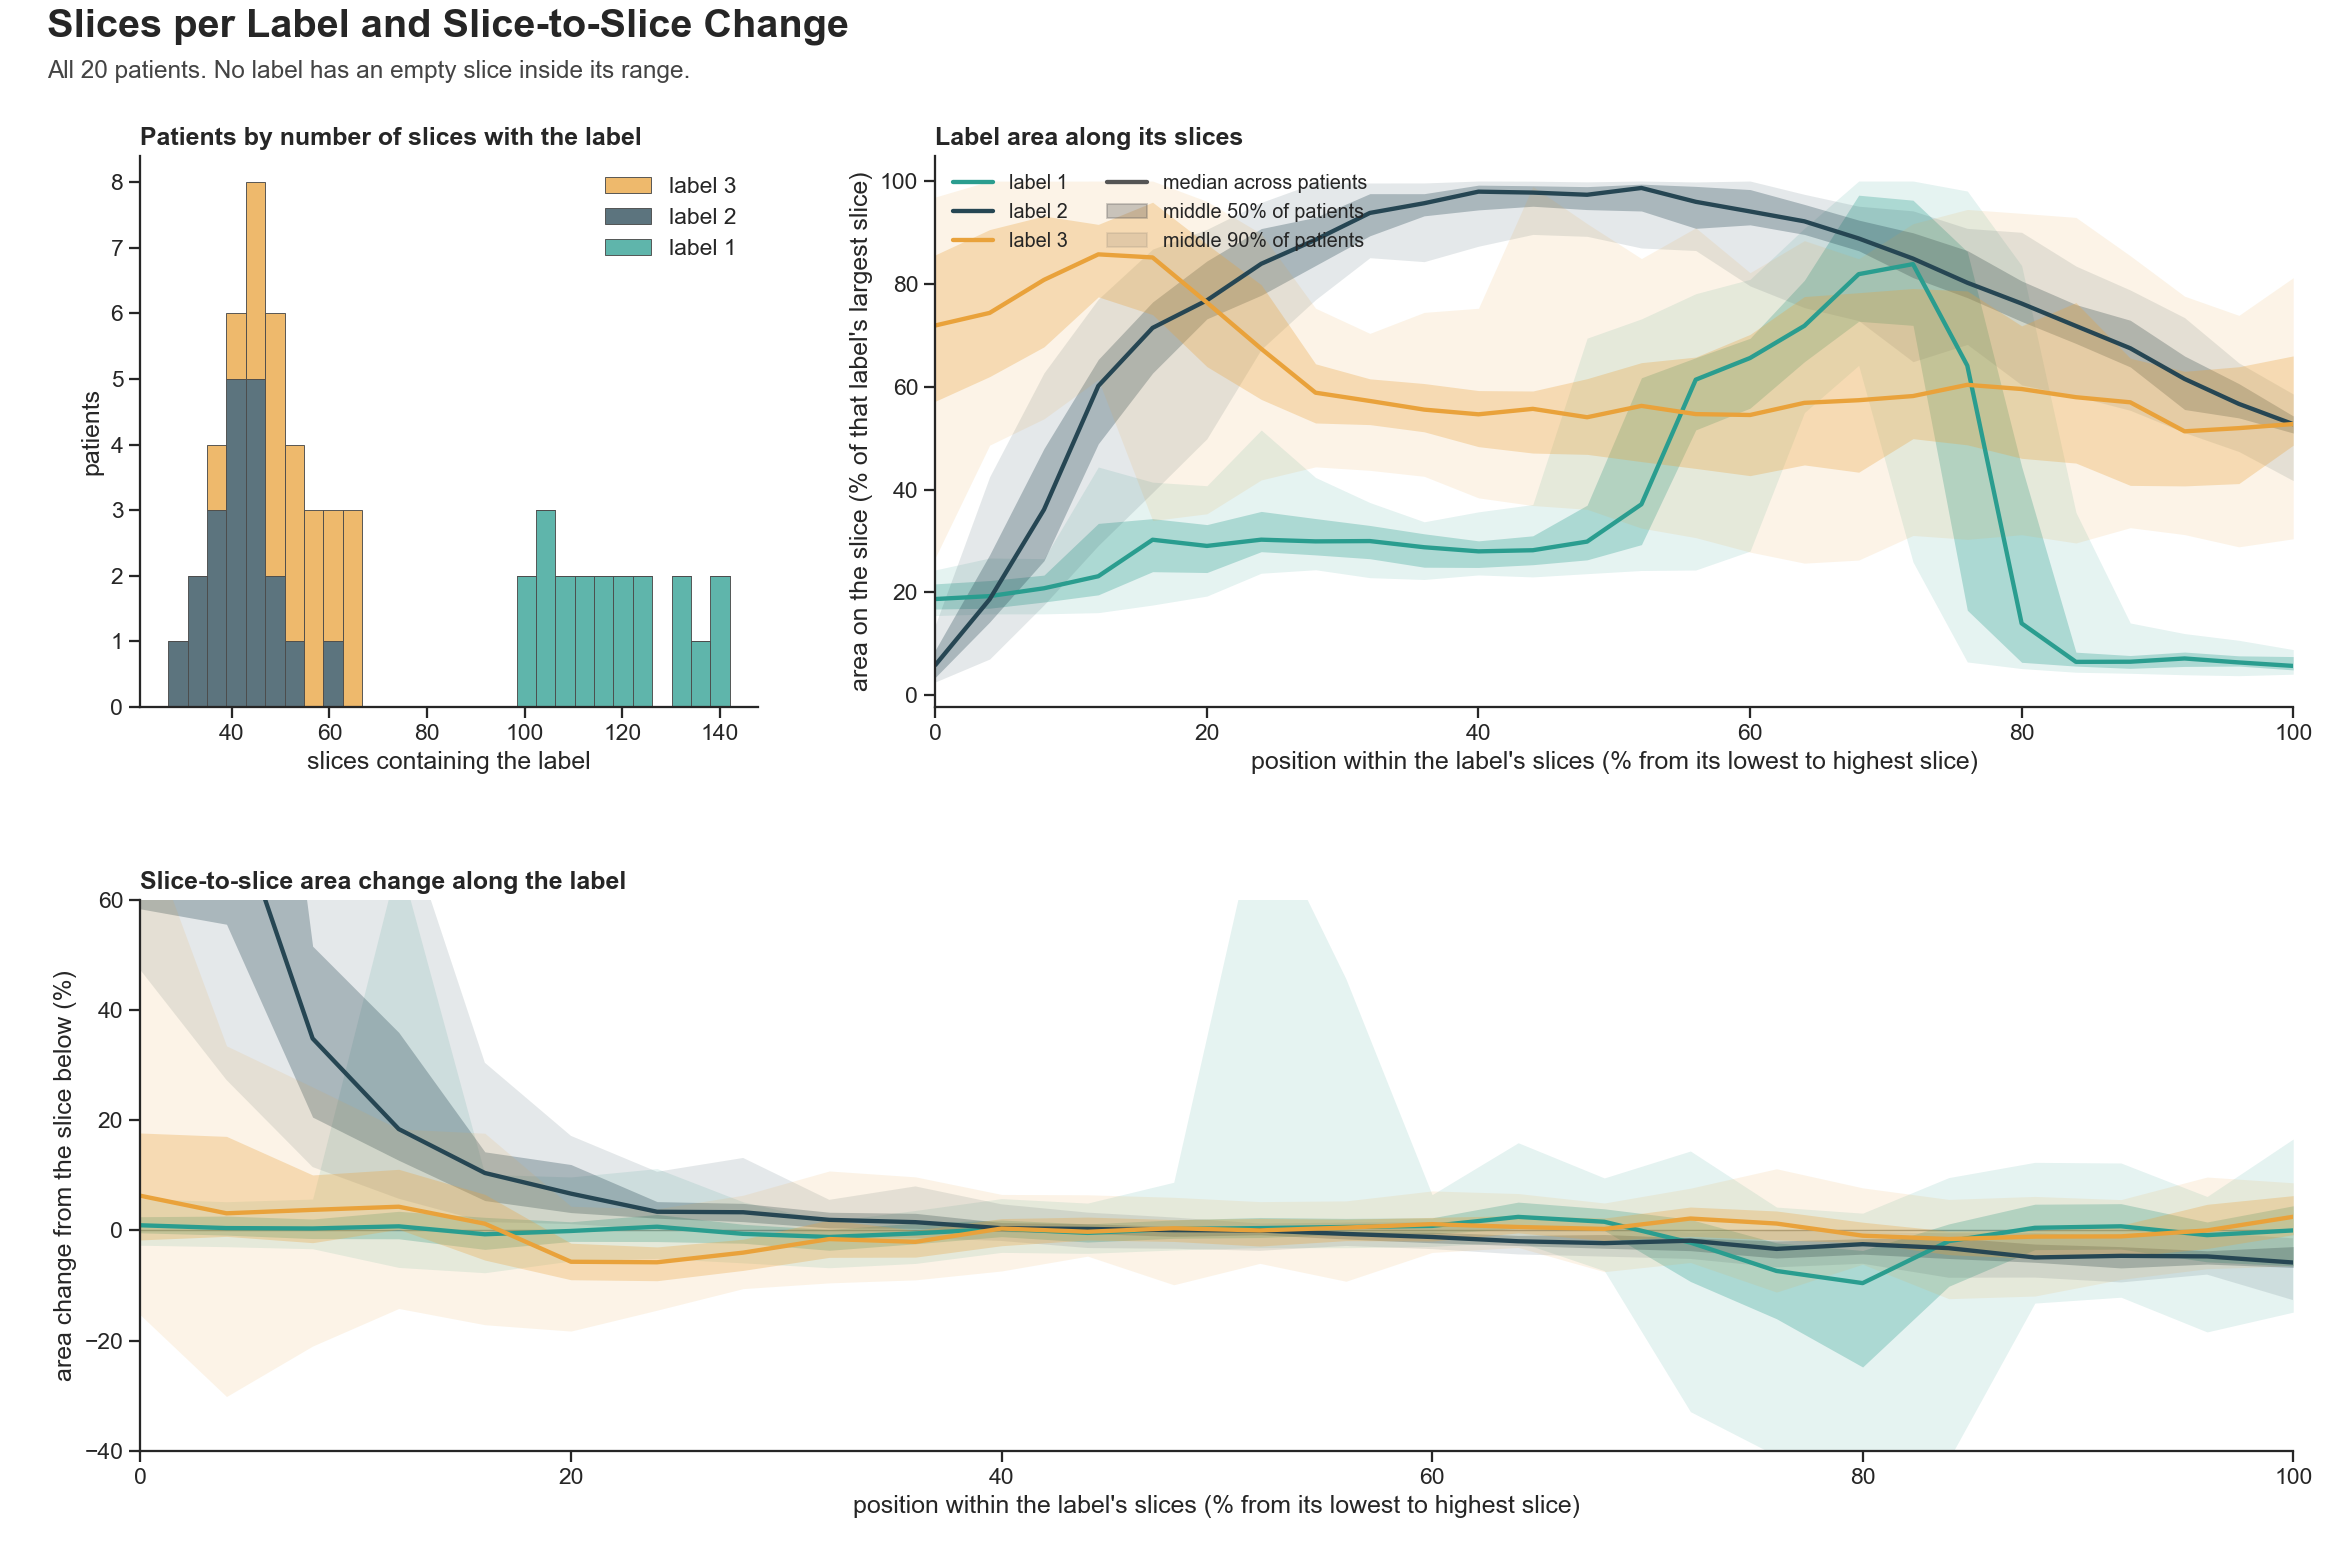
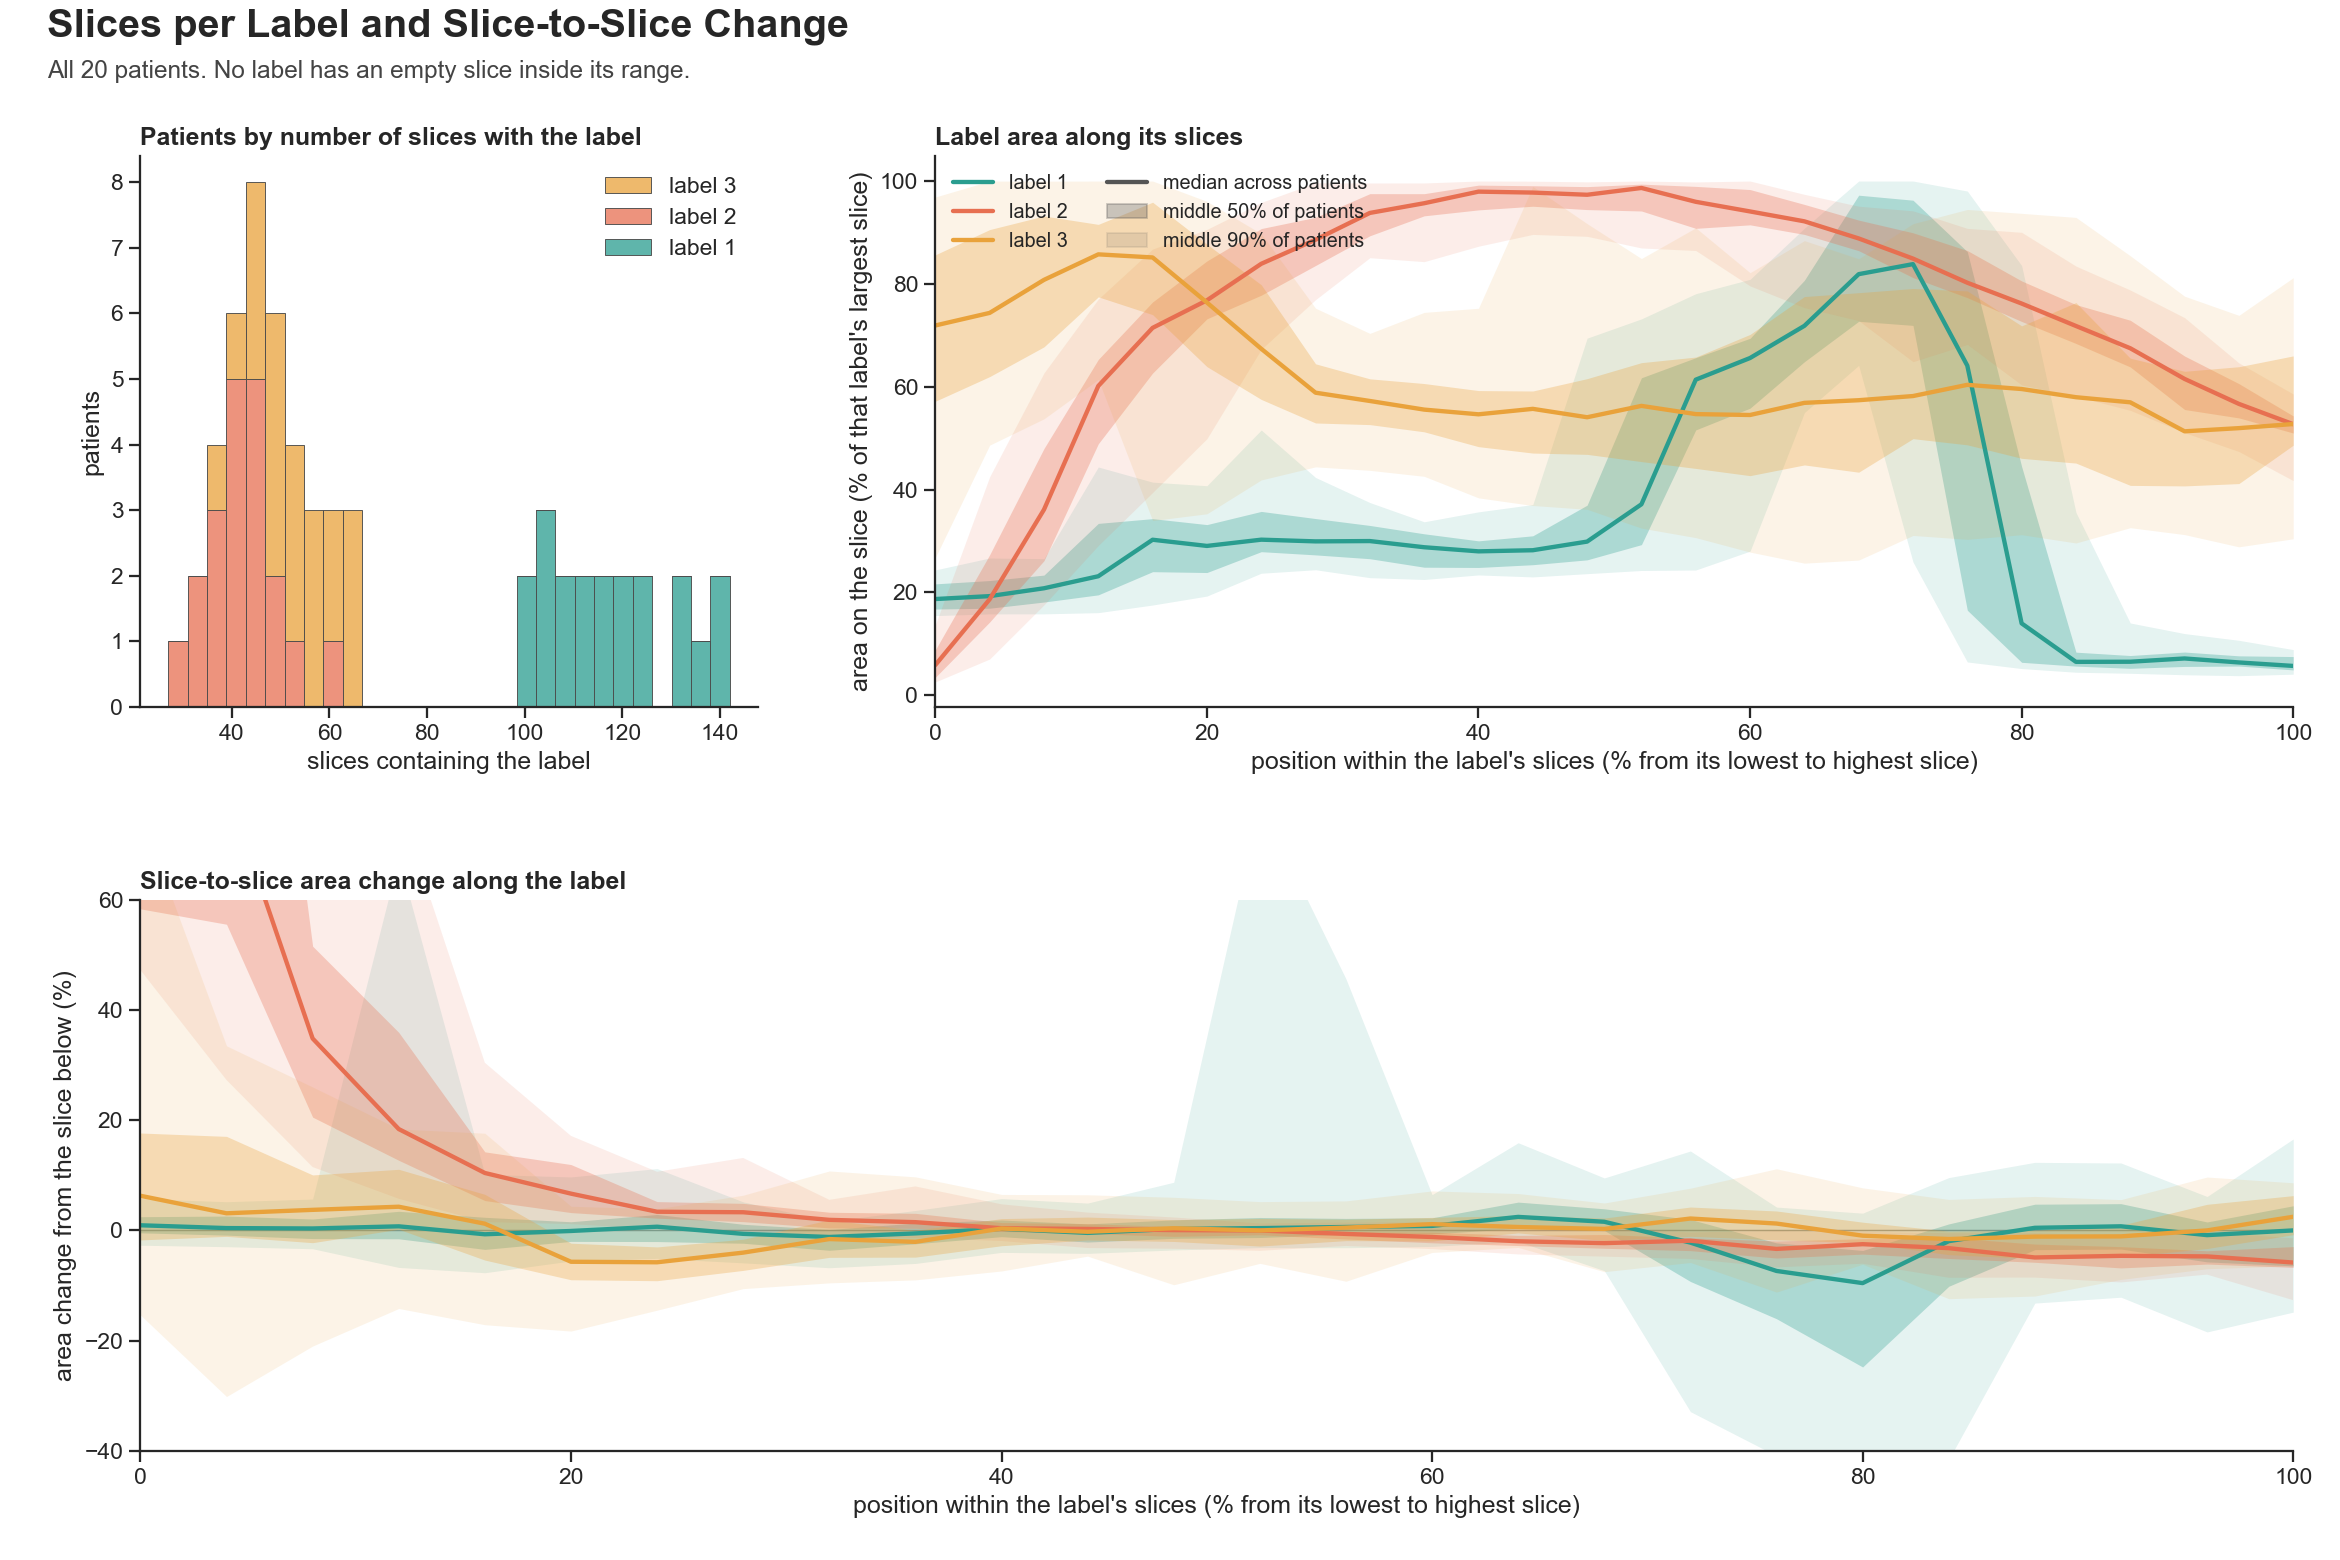
Recolour label 2 as coral in all label figures
Label 2's dark blue was hard to tell apart in the 3D and dot figures;
every label figure is redrawn with the new shared colour.

diff --git a/tools/profile_figures/common.py b/tools/profile_figures/common.py
@@ -12,7 +12,7 @@ import argparse
 from pathlib import Path
 
 # Fixed color per organ label, shared by every figure in this package.
-LABEL_COLORS = {1: "#2A9D8F", 2: "#264653", 3: "#E9A23B"}
+LABEL_COLORS = {1: "#2A9D8F", 2: "#E76F51", 3: "#E9A23B"}
 
 
 def build_arg_parser(description: str) -> argparse.ArgumentParser:
